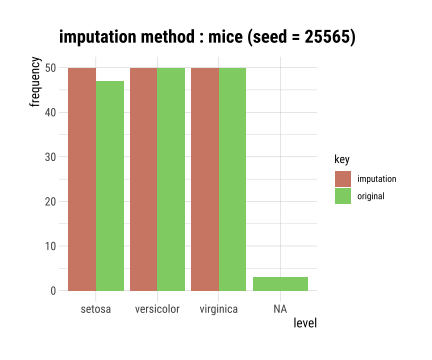
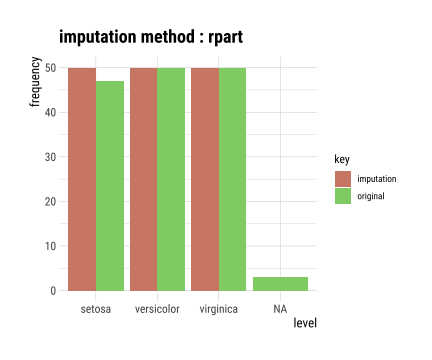
neaten slides

Changed region(s): [[0.4815, 0.0611, 0.8426, 0.1222]]

diff --git a/dlookr_slides.html b/dlookr_slides.html
@@ -4,7 +4,7 @@
     <title>dlookr Package</title>
     <meta charset="utf-8" />
     <meta name="author" content="Rachel Heise" />
-    <meta name="date" content="2022-09-19" />
+    <meta name="date" content="2022-10-02" />
     <script src="libs/header-attrs-2.15/header-attrs.js"></script>
     <link rel="stylesheet" href="xaringan-themer.css" type="text/css" />
     <link rel="stylesheet" href="extra.css" type="text/css" />
@@ -33,13 +33,13 @@ background-size: cover
 
 &lt;img src="img/dlookr_hex.png" alt="dlookr-hex-sticker" width="180" /&gt;
 
-&lt;h3 style="color: gray;"&gt;Rachel Heise | WCM Computing Club | September 22, 2022&lt;/h3&gt;
+&lt;h3 style="color: gray;"&gt;Rachel Heise | WCM Computing Club | October 4, 2022&lt;/h3&gt;
 
 ---
 
 # dlookr
 
-- Package for exploratory data analysis
+- R package for exploratory data analysis
 
   - Data diagnosis
   
@@ -49,9 +49,9 @@ background-size: cover
 
 --
 
-- What are the advantages of dlookr?
+- What are the advantages of `dlookr`?
 
-  - Seamless integration with `dplyr`
+  - `dlookr` functions output dataframes for seamless integration with `dplyr`
 
   - Use of `plot` and `summary` functions to quickly view diagnostic data
 
@@ -76,8 +76,6 @@ background-size: cover
   - Species (categorical, add NA)
     
 ]
-
---
 
 .pull-right[
 
@@ -123,7 +121,6 @@ iris %&gt;% data.table()
 
 ]
 
---
 
 .pull-right[
 
@@ -252,7 +249,6 @@ iris %&gt;%
   - Rank of each level by number of observations
 
 ]
---
 
 .pull-right[
 
@@ -456,11 +452,9 @@ iris %&gt;%
 
 .pull-left[
 
-- Target variables are similar to `group_by()` in `dplyr`
+- Target variables are created using the `target_by()` function and are used to explore the relationship between a categorical variable and other variable values
 
-- Target variables are used to explore the relationship between a categorical variable and other variable values
-
-  - `target_by` function
+  - Target variables are similar to `group_by()` in `dplyr`
 
 ]
 --
@@ -498,7 +492,7 @@ plot(cat_num)
 .pull-right[
 
 ```r
-sepallength_im &lt;- imputate_na(iris, Sepal.Length, yvar = Species, method = "knn")
+sepallength_im &lt;- imputate_na(iris, Sepal.Length, yvar = Petal.Length, method = "knn")
 summary(sepallength_im)
 ```
 
@@ -511,16 +505,16 @@ summary(sepallength_im)
 described_variables "value"      "value"     
 n                   "146"        "150"       
 na                  "4"          "0"         
-mean                "5.869178"   "5.846000"  
-sd                  "0.8211485"  "0.8232982" 
-se_mean             "0.06795873" "0.06722202"
+mean                "5.869178"   "5.846767"  
+sd                  "0.8211485"  "0.8224163" 
+se_mean             "0.06795873" "0.06715001"
 IQR                 "1.3"        "1.3"       
-skewness            "0.3041458"  "0.3387008" 
-kurtosis            "-0.5505983" "-0.5577333"
+skewness            "0.3041458"  "0.3407754" 
+kurtosis            "-0.5505983" "-0.5545574"
 p00                 "4.3"        "4.3"       
 p01                 "4.4"        "4.4"       
 p05                 "4.7"        "4.7"       
-p10                 "4.9"        "4.8"       
+p10                 "4.900000"   "4.801308"  
 p20                 "5"          "5"         
 p25                 "5.1"        "5.1"       
 p30                 "5.40"       "5.27"      
@@ -556,7 +550,7 @@ p100                "7.9"        "7.9"
 
 
 ```r
-sepallength_im &lt;- imputate_na(iris, Sepal.Length, yvar = Species, method = "knn")
+sepallength_im &lt;- imputate_na(iris, Sepal.Length, yvar = Petal.Length, method = "knn")
 ```
 
 
@@ -578,8 +572,7 @@ plot(sepallength_im)
 
 
 ```r
-library(mice)
-species_im &lt;- imputate_na(iris, Species, method = "mice")
+species_im &lt;- imputate_na(iris, Species, method = "rpart")
 ```
 
 
@@ -588,9 +581,8 @@ summary(species_im)
 ```
 
 ```
-* Impute missing values based on Multivariate Imputation by Chained Equations
- - method : mice
- - random seed : 25565
+* Impute missing values based on Recursive Partitioning and Regression Trees
+ - method : rpart
 
 * Information of Imputation (before vs after)
            original imputation original_percent imputation_percent
@@ -736,9 +728,9 @@ Sepal.Length  Sepal.Width
 
   - quantile
   - equal
-  - pretty (?)
+  - pretty (Computes equally spaced ‘round’ values that are 1, 2 or 5 times a power of 10)
   - kmeans
-  - bclust
+  - bclust (bagged clustering)
 ]
 
 --
@@ -778,7 +770,7 @@ summary(bin)
 4     B4   30 0.2000000
 ```
 ]
---
+
 .pull-right[
 
 ```r
@@ -787,6 +779,10 @@ plot(bin)
 
 ![](dlookr_slides_files/figure-html/unnamed-chunk-32-1.png)&lt;!-- --&gt;
 ]
+
+---
+
+# Questions?
 
 
 &lt;style type="text/css"&gt;
